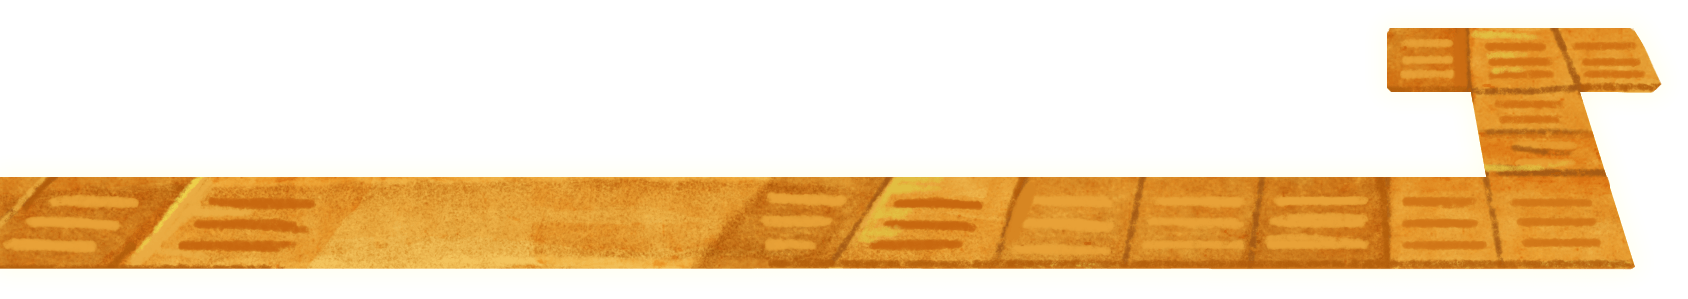
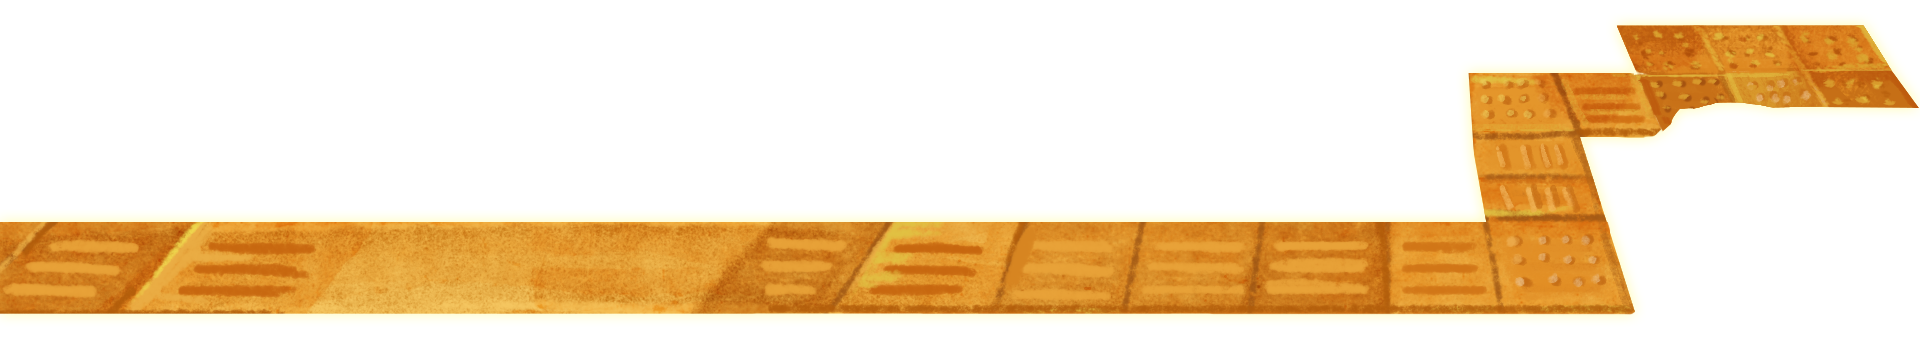
new asssets, fix

Changed region(s): [[0.0, 0.0602, 1.0, 0.9331]]

diff --git a/states/Work/MrtStationScene.js b/states/Work/MrtStationScene.js
@@ -69,7 +69,7 @@ MrtStationScene.prototype = {
       position:{
         x: 784,y: 855
       },
-      middle_anchor: true,
+      center_anchor: true,
       tweenIn: null,
       tweenOut: null
     },
@@ -79,7 +79,7 @@ MrtStationScene.prototype = {
       position:{
         x: 1722,y: 561
       },
-      middle_anchor: true,
+      center_anchor: true,
       tweenIn: null,
       tweenOut: null
     }
@@ -165,7 +165,7 @@ MrtStationScene.prototype = {
       2:{
         name:'guide_bricks',
         position:{
-          x: 844,y: 854
+          x: 955,y: 831
         },
         description:{
           group: null,
@@ -480,7 +480,9 @@ MrtStationScene.prototype = {
       
       // set anchor, alpha; disabled in diableAllButtons
       this.brighter_items.item[i].button.alpha = 0;
-      this.brighter_items.item[i].button.anchor.setTo(0.5);
+      
+      utils.centerGameObjects([this.brighter_items.item[i].button]);
+      // this.brighter_items.item[i].button.anchor.setTo(0.5);
 
     }
   },

diff --git a/states/Loading.js b/states/Loading.js
@@ -296,7 +296,7 @@ Loading.prototype = {
     // mrt station
     game.load.spritesheet('mrtstation_brighter_button', 'assets/images/work/mrt_station/brighter/MRT_station_brighter_button.png', 143, 126);
     game.load.spritesheet('mrtstation_brighter_gate', 'assets/images/work/mrt_station/brighter/MRT_station_brighter_gate.png', 494, 443);
-    game.load.spritesheet('mrtstation_brighter_guide_bricks', 'assets/images/work/mrt_station/brighter/MRT_station_brighter_guide_bricks.png', 1688, 299);
+    game.load.spritesheet('mrtstation_brighter_guide_bricks', 'assets/images/work/mrt_station/brighter/MRT_station_brighter_guide_bricks.png', 1920, 345);
     game.load.spritesheet('mrtstation_brighter_manager', 'assets/images/work/mrt_station/brighter/MRT_station_brighter_manager.png', 208, 253);
 
     // mrt
